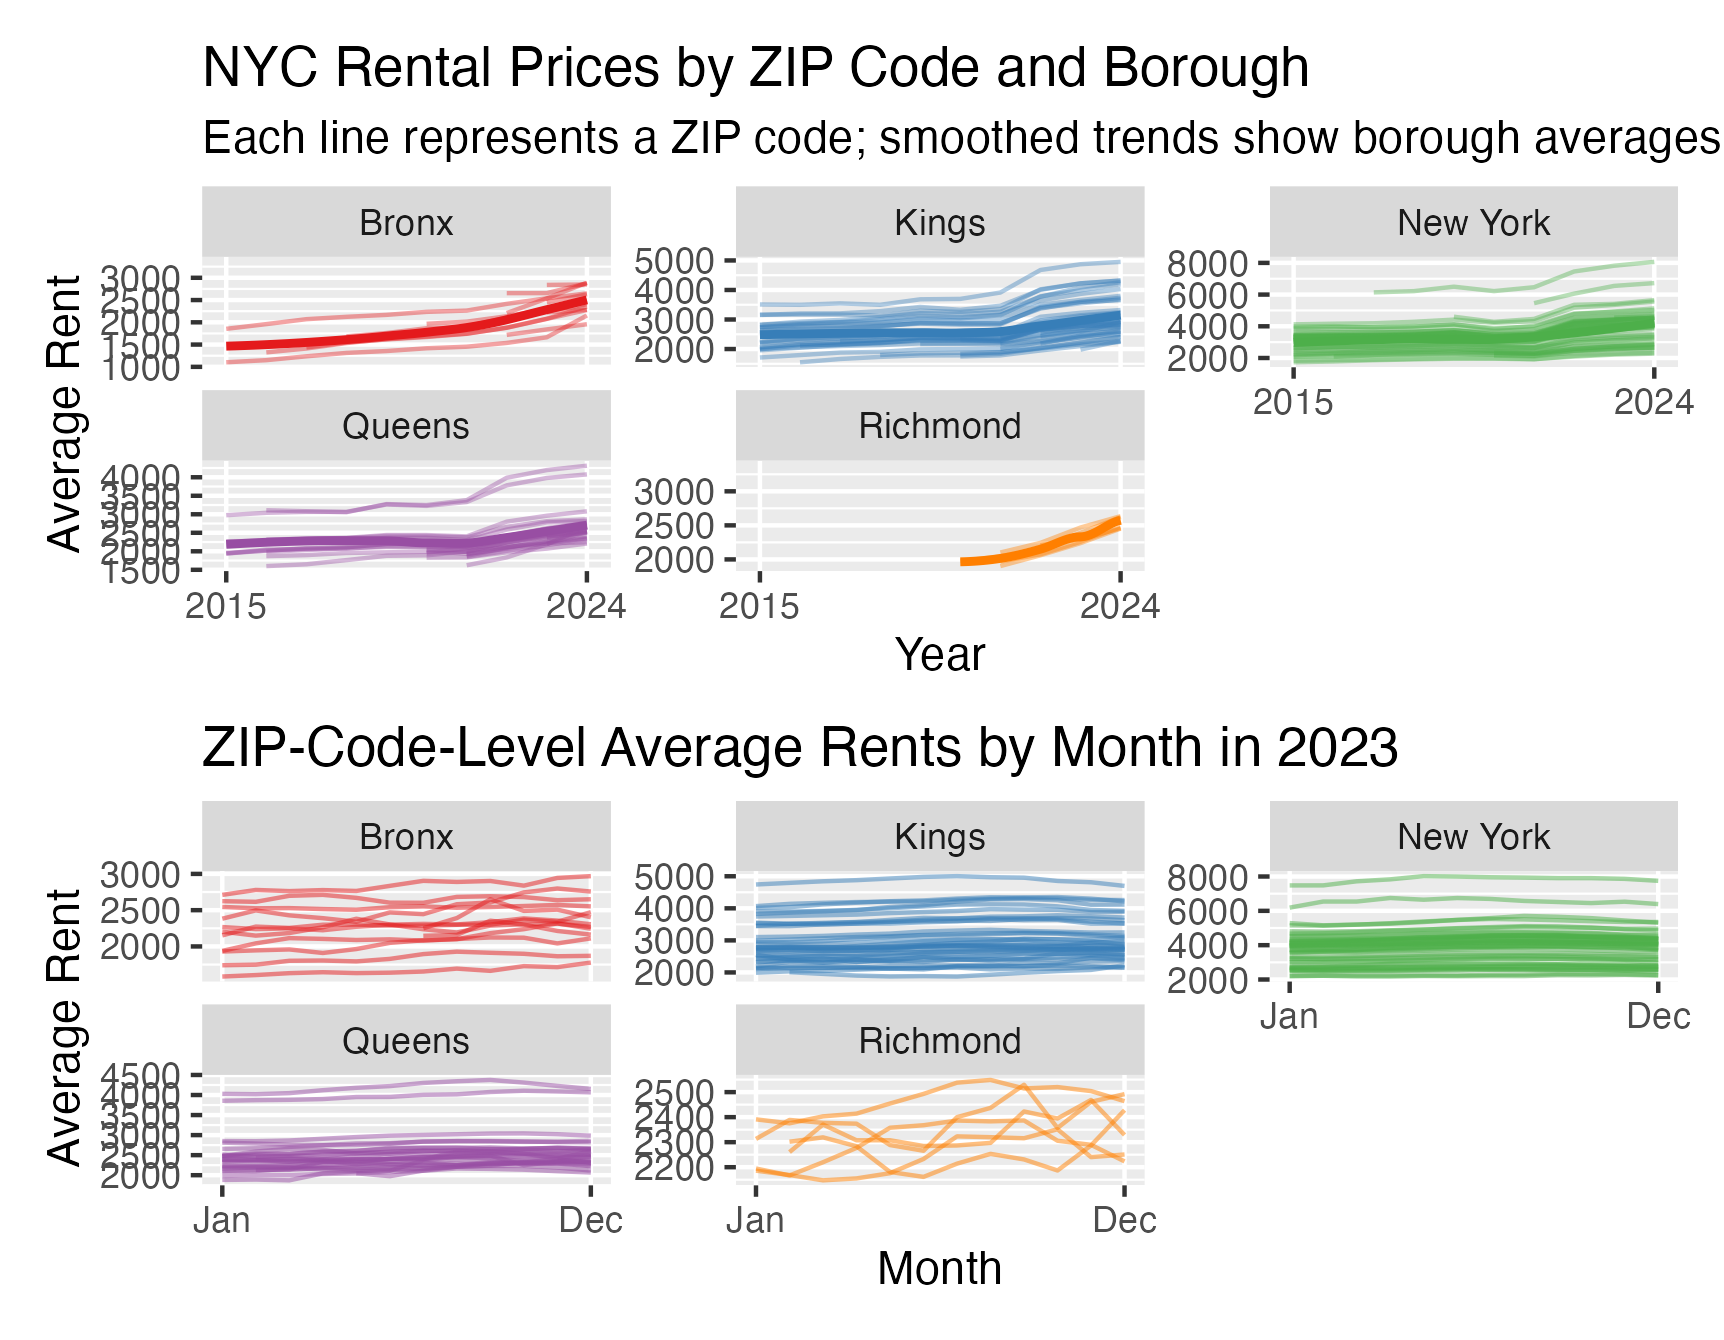
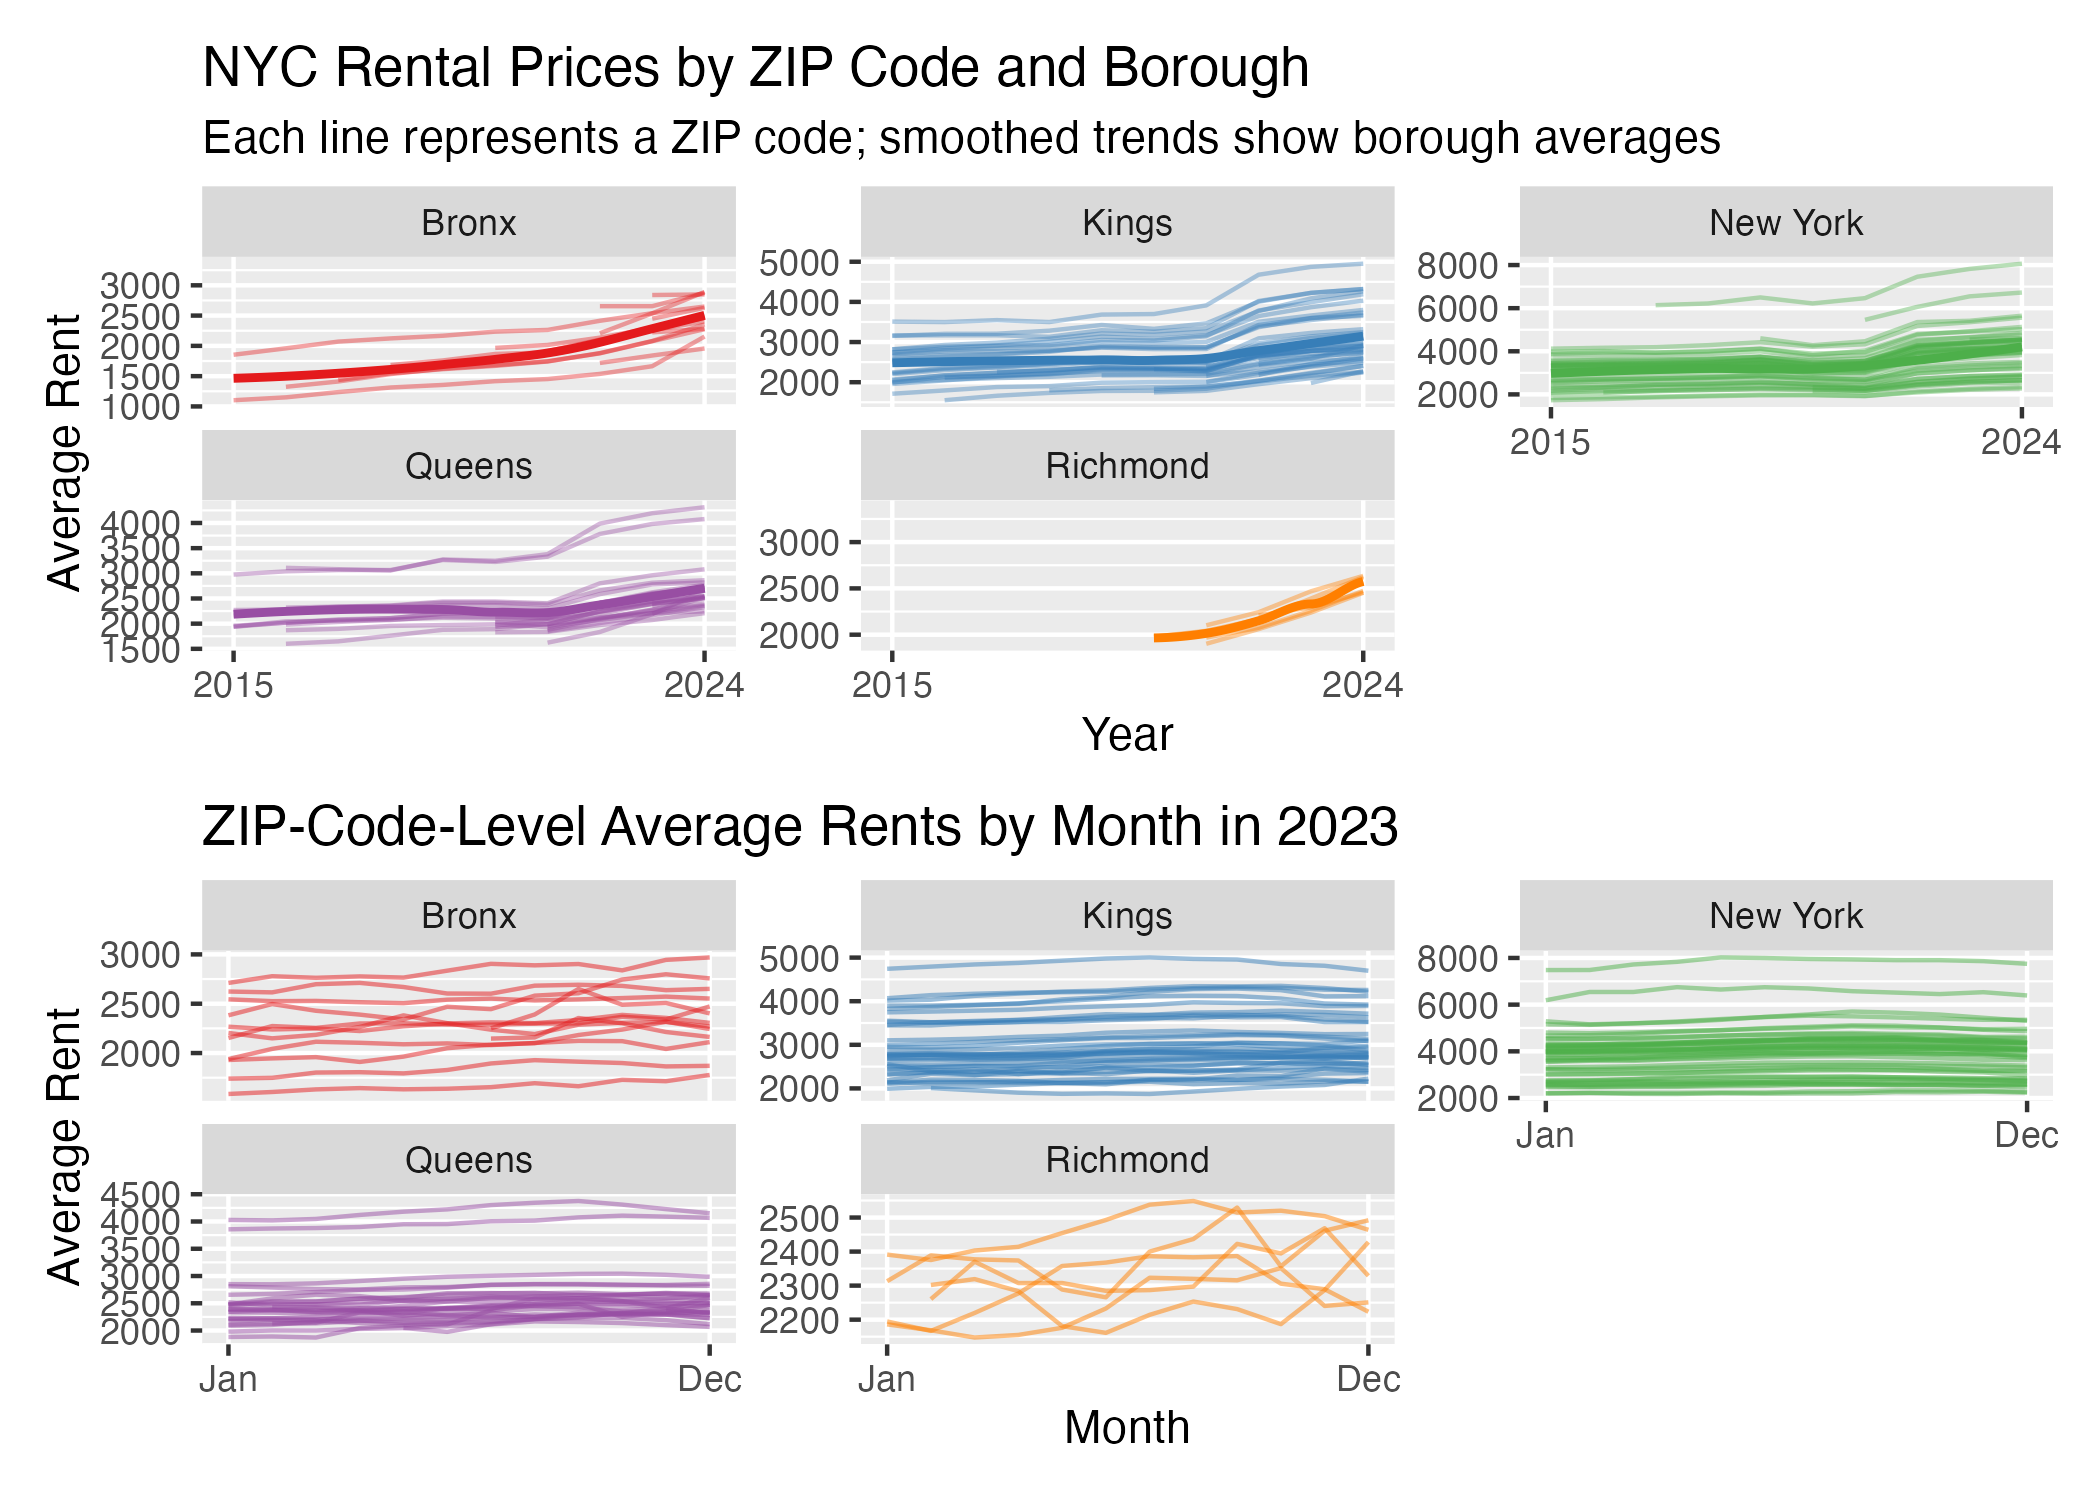
creating visualizations for age distribution, sex, and education

diff --git a/hw_3.md b/hw_3.md
@@ -25,12 +25,12 @@ library(tidyverse)
 ``` r
 library(p8105.datasets)
 library(patchwork)
-data("instacart")
 ```
 
 Viewing dataset
 
 ``` r
+data("instacart")
 view(instacart)
 ```
 
@@ -323,7 +323,11 @@ avg_rent = join_zillow_df |>
   separate(date,
     into = c("year", "month","day"), sep = "-") |> 
   group_by(county, year) |> 
-  summarize(average_rent = mean(rent_price))
+  summarize(average_rent = mean(rent_price)) |> 
+  pivot_wider(
+    names_from = county,
+    values_from = average_rent
+  )
 ```
 
     ## `summarise()` has grouped output by 'county'. You can override using the
@@ -333,53 +337,18 @@ avg_rent = join_zillow_df |>
 knitr::kable(avg_rent)
 ```
 
-| county   | year | average_rent |
-|:---------|:-----|-------------:|
-| Bronx    | 2015 |     1759.595 |
-| Bronx    | 2016 |     1520.194 |
-| Bronx    | 2017 |     1543.599 |
-| Bronx    | 2018 |     1639.430 |
-| Bronx    | 2019 |     1705.589 |
-| Bronx    | 2020 |     1811.443 |
-| Bronx    | 2021 |     1857.777 |
-| Bronx    | 2022 |     2054.267 |
-| Bronx    | 2023 |     2285.459 |
-| Bronx    | 2024 |     2496.896 |
-| Kings    | 2015 |     2492.928 |
-| Kings    | 2016 |     2520.357 |
-| Kings    | 2017 |     2545.828 |
-| Kings    | 2018 |     2547.291 |
-| Kings    | 2019 |     2630.504 |
-| Kings    | 2020 |     2555.051 |
-| Kings    | 2021 |     2549.890 |
-| Kings    | 2022 |     2868.199 |
-| Kings    | 2023 |     3015.184 |
-| Kings    | 2024 |     3126.803 |
-| New York | 2015 |     3022.042 |
-| New York | 2016 |     3038.818 |
-| New York | 2017 |     3133.848 |
-| New York | 2018 |     3183.703 |
-| New York | 2019 |     3310.408 |
-| New York | 2020 |     3106.517 |
-| New York | 2021 |     3136.632 |
-| New York | 2022 |     3778.375 |
-| New York | 2023 |     3932.610 |
-| New York | 2024 |     4078.440 |
-| Queens   | 2015 |     2214.707 |
-| Queens   | 2016 |     2271.955 |
-| Queens   | 2017 |     2263.303 |
-| Queens   | 2018 |     2291.918 |
-| Queens   | 2019 |     2387.816 |
-| Queens   | 2020 |     2315.632 |
-| Queens   | 2021 |     2210.787 |
-| Queens   | 2022 |     2406.038 |
-| Queens   | 2023 |     2561.615 |
-| Queens   | 2024 |     2694.022 |
-| Richmond | 2020 |     1977.608 |
-| Richmond | 2021 |     2045.430 |
-| Richmond | 2022 |     2147.436 |
-| Richmond | 2023 |     2332.934 |
-| Richmond | 2024 |     2536.442 |
+| year |    Bronx |    Kings | New York |   Queens | Richmond |
+|:-----|---------:|---------:|---------:|---------:|---------:|
+| 2015 | 1759.595 | 2492.928 | 3022.042 | 2214.707 |       NA |
+| 2016 | 1520.194 | 2520.357 | 3038.818 | 2271.955 |       NA |
+| 2017 | 1543.599 | 2545.828 | 3133.848 | 2263.303 |       NA |
+| 2018 | 1639.430 | 2547.291 | 3183.703 | 2291.918 |       NA |
+| 2019 | 1705.589 | 2630.504 | 3310.408 | 2387.816 |       NA |
+| 2020 | 1811.443 | 2555.051 | 3106.517 | 2315.632 | 1977.608 |
+| 2021 | 1857.777 | 2549.890 | 3136.632 | 2210.787 | 2045.430 |
+| 2022 | 2054.267 | 2868.199 | 3778.375 | 2406.038 | 2147.436 |
+| 2023 | 2285.459 | 3015.184 | 3932.610 | 2561.615 | 2332.934 |
+| 2024 | 2496.896 | 3126.803 | 4078.440 | 2694.022 | 2536.442 |
 
 In the Bronx, the rent was decreasing from 2015 to 2018. From 2019 to
 2024, the rent increases substantially. In Kings county, the rent
@@ -402,10 +371,18 @@ zip_avg = join_zillow_df |>
 #creating plot to compare across boroughs
 plot1 <- ggplot(zip_avg, aes(x = year, y = mean_rent, group = zip_code, color = county)) +
   geom_line(alpha = 0.4) +
+  theme(legend.position = "none") +
   geom_smooth(aes(group = county, color = county), se = FALSE, size = 1.0) +
   facet_wrap(~county, scales = "free_y") +
   scale_color_brewer(palette = "Set1") +
-  scale_x_discrete(breaks = c("2015", "2024"))
+  scale_x_discrete(breaks = c("2015", "2024")) +
+  labs(
+    title = "NYC Rental Prices by ZIP Code and Borough",
+    subtitle = "Each line represents a ZIP code; smoothed trends show borough averages",
+    x = "Year",
+    y = "Average Rent",
+    color = "Borough"
+  )
 ```
 
     ## Warning: Using `size` aesthetic for lines was deprecated in ggplot2 3.4.0.
@@ -413,19 +390,6 @@ plot1 <- ggplot(zip_avg, aes(x = year, y = mean_rent, group = zip_code, color = 
     ## This warning is displayed once every 8 hours.
     ## Call `lifecycle::last_lifecycle_warnings()` to see where this warning was
     ## generated.
-
-``` r
-  labs(
-    title = "NYC Rental Prices by ZIP Code and Borough",
-    subtitle = "Each line represents a ZIP code; smoothed trends show borough averages",
-    x = "Year",
-    y = "Average Rent",
-    color = "Borough"
-  ) +
-  theme(legend.position = "none")
-```
-
-    ## NULL
 
 From this plot showing NYC rental prices within ZIP codes for all
 available years, we can see that in almost all the boroughs, starting in
@@ -467,24 +431,22 @@ rent_2023 = join_zillow_df |>
 plot2 <- ggplot(rent_2023, aes(x = month, y = avg_monthly_rent, 
                       group = zip_code, color = county )) +
   geom_line(alpha = 0.5) +
+  theme(legend.position = "none") +
   facet_wrap(~ county, scales = "free_y") +
   scale_color_brewer(palette = "Set1") +
-  scale_x_discrete(breaks = c("Jan", "Dec"))
+  scale_x_discrete(breaks = c("Jan", "Dec")) +
   labs(
     title = "ZIP-Code-Level Average Rents by Month in 2023",
     x = "Month",
     y = "Average Rent",
     color = "Borough"
-  ) +
-  theme(legend.position = "none")
+  )
 ```
-
-    ## NULL
 
 From this plot showing average NYC rental prices each month in 2023
 across boroughs, we can see that Kings and New York county have more
 steady prices for each zip code throughout the year, however, for
-Richmond and Bronx county, there is more fluctuation in prices./
+Richmond and Bronx county, there is more fluctuation in prices.
 
 **Combining Plots**
 
@@ -509,4 +471,167 @@ combined_plot
 
 ![](hw_3_files/figure-gfm/unnamed-chunk-15-1.png)<!-- -->
 
+Saving plot
+
+``` r
+ggsave(
+  filename = "combined_plot.png",  
+  plot = combined_plot,            
+  path = "results"
+)
+```
+
+    ## Saving 7 x 5 in image
+    ## `geom_smooth()` using method = 'loess' and formula = 'y ~ x'
+
+    ## Warning in simpleLoess(y, x, w, span, degree = degree, parametric = parametric,
+    ## : pseudoinverse used at 10.02
+
+    ## Warning in simpleLoess(y, x, w, span, degree = degree, parametric = parametric,
+    ## : neighborhood radius 2.02
+
+    ## Warning in simpleLoess(y, x, w, span, degree = degree, parametric = parametric,
+    ## : reciprocal condition number 0
+
+    ## Warning in simpleLoess(y, x, w, span, degree = degree, parametric = parametric,
+    ## : There are other near singularities as well. 1
+
 ## Problem 3
+
+Load, tidy, merge, and otherwise organize the data sets. Your final
+dataset should include all originally observed variables; exclude
+participants less than 21 years of age, and those with missing
+demographic data; and encode data with reasonable variable classes
+(i.e. not numeric, and using factors with the ordering of tables and
+plots in mind).
+
+cleaning demographic file
+
+``` r
+demo_df = 
+  read_csv("data/nhanes_covar.csv") |> 
+  filter(row_number() > 3) 
+```
+
+    ## New names:
+    ## Rows: 254 Columns: 5
+    ## ── Column specification
+    ## ──────────────────────────────────────────────────────── Delimiter: "," chr
+    ## (5): ...1, 1 = male, ...3, ...4, 1 = Less than high school
+    ## ℹ Use `spec()` to retrieve the full column specification for this data. ℹ
+    ## Specify the column types or set `show_col_types = FALSE` to quiet this message.
+    ## • `` -> `...1`
+    ## • `` -> `...3`
+    ## • `` -> `...4`
+
+``` r
+colnames(demo_df) <- demo_df[1, ] #assigning first row as column names
+demo_df <- demo_df[-1, ] #removing first row
+demo_df =
+  demo_df |> janitor::clean_names() |> 
+  filter(age >= 21) |> 
+  drop_na(sex, age, bmi, education) |> 
+  mutate(sex = as.character(sex), 
+         sex = case_match(
+           sex,
+           "1" ~ "male",
+           "2" ~ "female"),
+         education = as.factor(education),
+         seqn = as.numeric(seqn)
+  )
+```
+
+cleaning accel file
+
+``` r
+accel_df =
+  read.csv("data/nhanes_accel.csv") |> 
+  janitor::clean_names() |> 
+  pivot_longer(
+    cols = min1:min1440,
+    names_to = "minute",
+    values_to = "mims"
+  ) |> 
+  mutate(minute = gsub("min", "", minute))
+```
+
+merging files
+
+``` r
+mims_df =
+  inner_join(demo_df, accel_df)
+```
+
+    ## Joining with `by = join_by(seqn)`
+
+Produce a reader-friendly table for the number of men and women in each
+education category
+
+``` r
+sex_educ =
+  demo_df |> 
+  count(sex, education) |> 
+  pivot_wider(names_from = sex, 
+              values_from = n) |> 
+  mutate(education = as.numeric(as.character(education)),
+         education =
+           case_match(
+             education,
+             1 ~ "Less than High School",
+             2 ~ "High School Equivalent",
+             3 ~ "More than High School"
+           ))
+
+knitr::kable(sex_educ, caption = "Number of Participants by Education Level and Sex")
+```
+
+| education              | female | male |
+|:-----------------------|-------:|-----:|
+| Less than High School  |     28 |   27 |
+| High School Equivalent |     23 |   35 |
+| More than High School  |     59 |   56 |
+
+Number of Participants by Education Level and Sex
+
+There are more males than females who have a high school equivalent
+education. The number of females who’ve done less than high school is
+similar to the number of males who’ve done less than highschool. This is
+the same case for those who’ve completed more than highschool.
+
+Create a visualization of the age distributions for men and women in
+each education category
+
+``` r
+#setting up data frame for plot
+demo_plot_df =
+  demo_df |> 
+  mutate(age = as.numeric(age),
+         education = as.numeric(as.character(education)),
+         education =
+           case_match(
+             education,
+             1 ~ "Less than High School",
+             2 ~ "High School Equivalent",
+             3 ~ "More than High School"
+           ))
+
+#plotting histogram
+ggplot(demo_plot_df, aes(x = age, fill = sex)) +
+  geom_histogram(binwidth = 10, position = "dodge") +
+  # Create a separate plot for each education category
+  facet_wrap(~ education) +
+  labs(
+    title = "Age Distribution by Education and Gender",
+    x = "Age",
+    y = "Count of Participants"
+  )
+```
+
+![](hw_3_files/figure-gfm/unnamed-chunk-21-1.png)<!-- --> Some key
+observations from this plot are that the ‘More than High School’
+category holds the largest number of participants and skewed towards a
+younger demographic. There is a prominent peak for females in the 20-30
+age bracket. In the other two groups, the age distribution is more
+evenly spread out across all age ranges. There is no single dominant age
+group. The overall number of participants in each age group is generally
+low.
